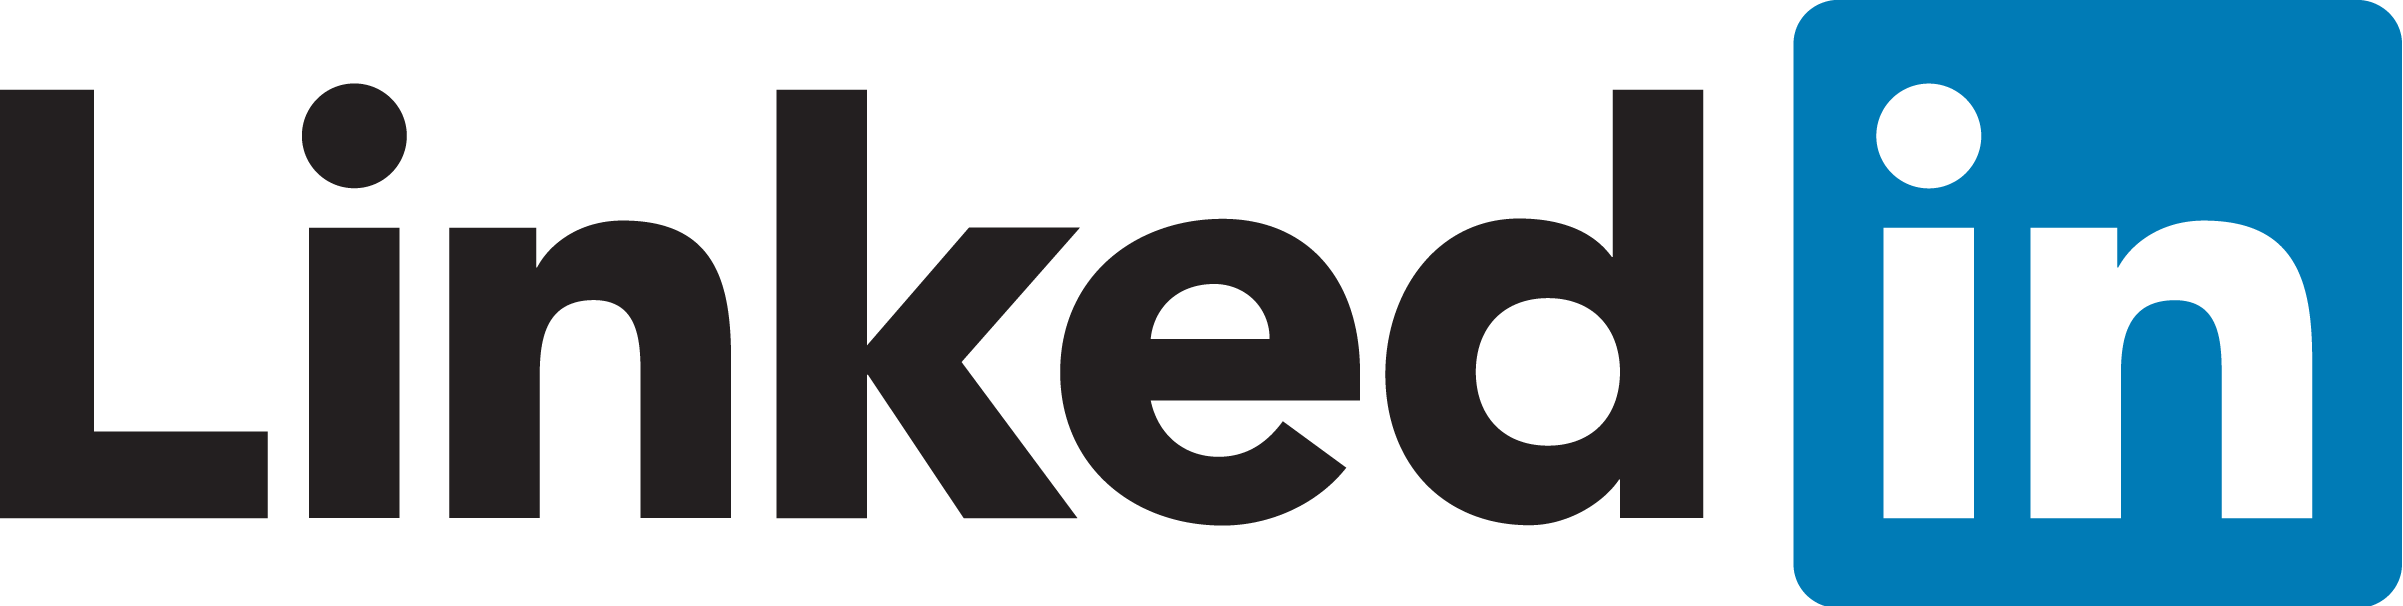
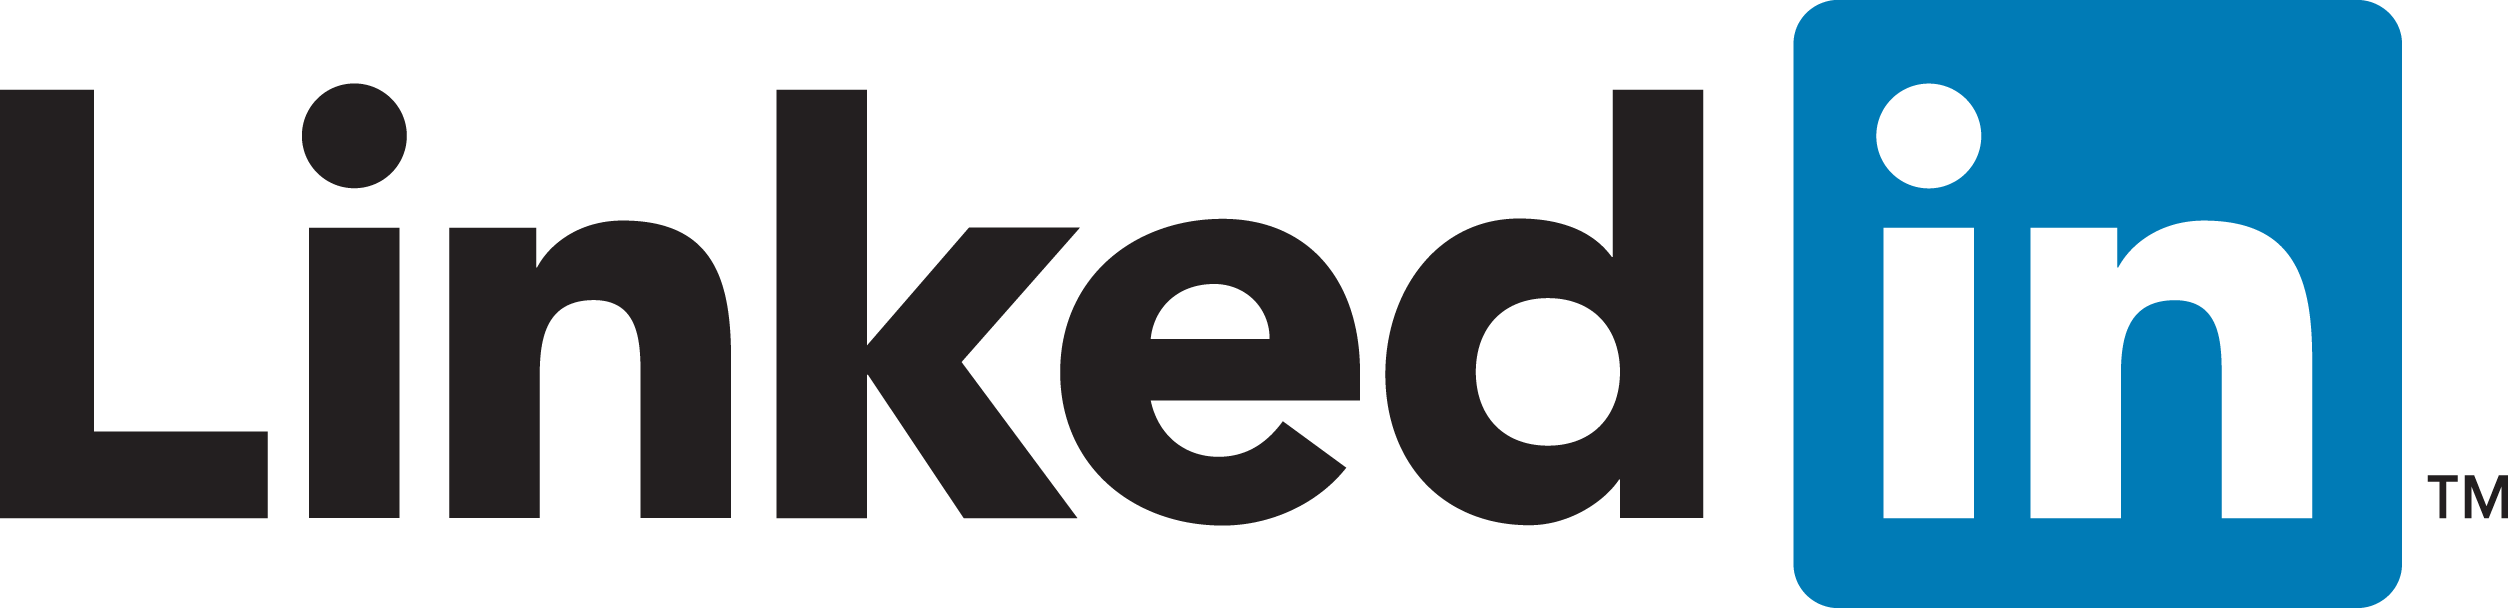
Login button + LinkedIn page changed to meet their guidelines

diff --git a/AlumniPortal/AlumniPortal/test/templates/profile_link.html b/AlumniPortal/AlumniPortal/test/templates/profile_link.html
@@ -11,23 +11,23 @@
     <div id="linkprofile">
         <div class="row">
             <h3 style="color: #333; font-weight: normal">
-                Click here to fetch your <img src="{{ STATIC_URL }}alumniportal/img/LinkedIn.png" height="33px"
-                                               width="132px"> profile!
+                Click here to fetch your &nbsp;<img src="{{ STATIC_URL }}alumniportal/img/LinkedIn.png" height="34px"
+                                               width="143px"> profile!
             </h3>
         </div>
         <br>
 
-        <div class="row" style="text-align: center">
-            <a href="{% provider_login_url "linkedin" process="connect" next="/test/profile/edit/personal" %}"><div id="linkedin">
-                <div></div>
-            </div></a>
-        </div>
+{#        <div class="row" style="text-align: center">#}
+{#            <a href="{% provider_login_url "linkedin" process="connect" next="/test/profile/edit/personal" %}"><div id="linkedin">#}
+{#                <div></div>#}
+{#            </div></a>#}
+{#        </div>#}
     </div>
 {% endblock %}
 
 {% block parent_right_content %}
     <div class="row">
-        <div class="col-lg-1" style="padding-top: 90px">
+        <div class="col-lg-1" style="padding-top: 41px">
             <h3>OR</h3>
         </div>
         <div class="col-lg-3 pull-right">

diff --git a/AlumniPortal/AlumniPortal/templates/navbar.html b/AlumniPortal/AlumniPortal/templates/navbar.html
@@ -19,7 +19,7 @@
                     <a href="/contact_us/"><li class="glyphicon glyphicon-comment"><span class="nav-bar-font">Contact Us</span></li></a>
 
                     {% if not user.is_authenticated %}
-                        <a href="{% provider_login_url "google" %}" title="Log in with IIITD mail"><li id="login"><span class="nav-bar-font">Login</span></li></a>
+                        <li id="login"><a href="{% provider_login_url "google" %}" title="Log in with IIITD mail"><span class="nav-bar-font">Login</span></a></li>
                     {% else %}
                         <span id="username" class='nav-bar-font'>Hi, {{ user.first_name }}!</span>
                     {% endif %}

diff --git a/AlumniPortal/AlumniPortal/static/alumniportal/css/stylesheet.css b/AlumniPortal/AlumniPortal/static/alumniportal/css/stylesheet.css
@@ -131,10 +131,24 @@ h3 {
 }
 
 #login {
-    margin-left: 50px;
+    margin-left: 20px;
 }
 #login:hover {
     border: none !important;
+}
+#login span {
+    color: white;
+    background-color: #3fada8;
+    padding: 10px 15px;
+    border-radius: 3px;
+    border-bottom: 2px solid #366;
+}
+#login span:hover {
+    box-shadow: inset 0 0 0 20px rgba(250, 250, 250, 0.15);
+}
+#login span:active {
+    border: none;
+    box-shadow: inset 0 0 8px #444;
 }
 
 .nav-bar-font {

diff --git a/AlumniPortal/AlumniPortal/static/alumniportal/css/profile.css b/AlumniPortal/AlumniPortal/static/alumniportal/css/profile.css
@@ -152,7 +152,7 @@
     background-color: #D0D0D0;
     border-bottom: 2px solid #444;
     box-shadow: 0 2px 5px #111;
-    padding: 10px 50px 20px 50px;
+    padding: 10px 50px 5px 50px;
     border-radius: 5px;
     cursor: pointer;
 }
@@ -164,7 +164,7 @@
 }
 
 #proceedtosignup {
-    margin-top: 97px;
+    margin-top: 47px;
     font-size: 18px;
     cursor: pointer;
 }
